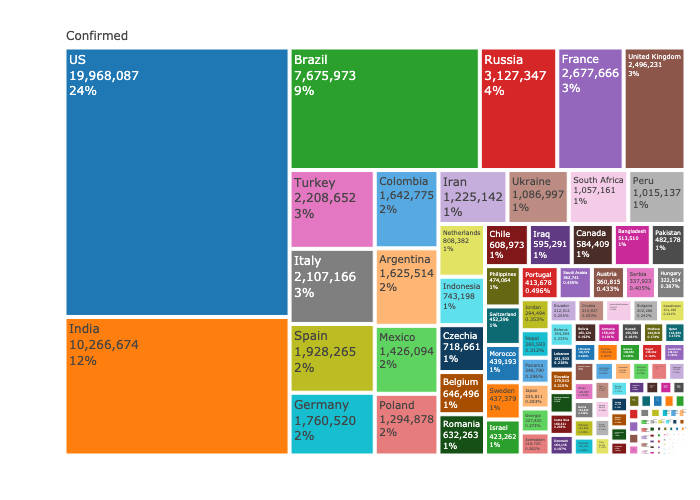
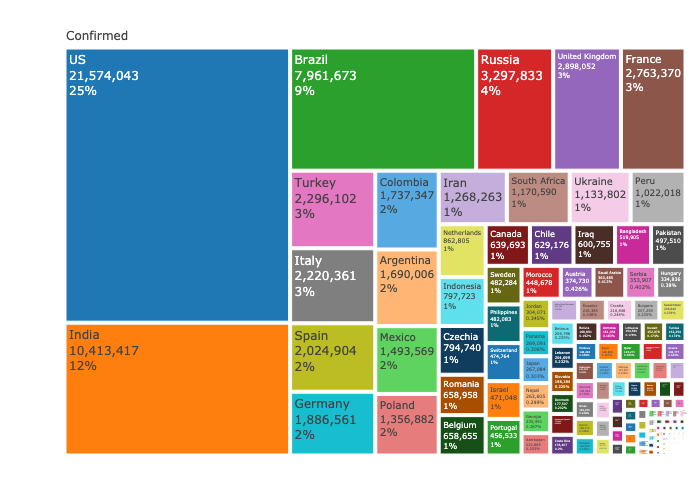
update the readme

Changed region(s): [[0.09, 0.09, 0.99, 0.93], [0.42, 0.09, 0.51, 0.21], [0.09, 0.12, 0.21, 0.18]]

diff --git a/README.md b/README.md
@@ -16,8 +16,8 @@ commit](https://img.shields.io/github/last-commit/RamiKrispin/coronavirus)](http
 
 <!-- badges: end -->
 
-The coronavirus package provides a tidy format dataset of the 2019-2020 
-Coronavirus disease COVID-19 epidemic. The raw data pulled from the
+The coronavirus package provides a tidy format dataset of the 2019 Novel
+Coronavirus COVID-19 (2019-nCoV) epidemic. The raw data pulled from the
 Johns Hopkins University Center for Systems Science and Engineering (JHU
 CCSE) Coronavirus
 [repository](https://github.com/CSSEGISandData/COVID-19).
@@ -47,7 +47,7 @@ Install the CRAN version:
 install.packages("coronavirus")
 ```
 
-Install the Github version (refreshed on a daily basis):
+Install the Github version (refreshed on a daily bases):
 
 ``` r
 # install.packages("devtools")
@@ -60,7 +60,7 @@ While the **coronavirus** [CRAN
 version](https://cran.r-project.org/package=coronavirus) is updated
 every month or two, the [Github (Dev)
 version](https://github.com/RamiKrispin/coronavirus) is updated on a
-daily basis. The `update_dataset` function enables to overcome this gap
+daily bases. The `update_dataset` function enables to overcome this gap
 and keep the installed version with the most recent data available on
 the Github version:
 
@@ -70,25 +70,6 @@ update_dataset()
 ```
 
 **Note:** must restart the R session to have the updates available
-
-Alternatively, you can pull the data using the
-[Covid19R](https://covid19r.github.io/documentation/) project [data
-standard
-format](https://covid19r.github.io/documentation/data-format-standard.html)
-with the `refresh_coronavirus_jhu` function:
-
-``` r
-covid19_df <- refresh_coronavirus_jhu()
-
-head(covid19_df)
-#>         date    location location_type location_code location_code_type  data_type value      lat      long
-#> 1 2020-04-05 Afghanistan       country            AF         iso_3166_2  cases_new    38 33.93911 67.709953
-#> 2 2020-08-12 Afghanistan       country            AF         iso_3166_2 deaths_new    10 33.93911 67.709953
-#> 3 2020-08-10 Afghanistan       country            AF         iso_3166_2 deaths_new     8 33.93911 67.709953
-#> 4 2020-08-15 Afghanistan       country            AF         iso_3166_2  cases_new    45 33.93911 67.709953
-#> 5 2020-10-09 Afghanistan       country            AF         iso_3166_2  cases_new    77 33.93911 67.709953
-#> 6 2020-04-03 Afghanistan       country            AF         iso_3166_2  cases_new    35 33.93911 67.709953
-```
 
 ## Dashboard
 
@@ -139,30 +120,30 @@ summary_df %>% head(20)
 #> # A tibble: 20 x 2
 #>    country        total_cases
 #>    <chr>                <int>
-#>  1 US                19968087
-#>  2 India             10266674
-#>  3 Brazil             7675973
-#>  4 Russia             3127347
-#>  5 France             2677666
-#>  6 United Kingdom     2496231
-#>  7 Turkey             2208652
-#>  8 Italy              2107166
-#>  9 Spain              1928265
-#> 10 Germany            1760520
-#> 11 Colombia           1642775
-#> 12 Argentina          1625514
-#> 13 Mexico             1426094
-#> 14 Poland             1294878
-#> 15 Iran               1225142
-#> 16 Ukraine            1086997
-#> 17 South Africa       1057161
-#> 18 Peru               1015137
-#> 19 Netherlands         808382
-#> 20 Indonesia           743198
+#>  1 US                21574043
+#>  2 India             10413417
+#>  3 Brazil             7961673
+#>  4 Russia             3297833
+#>  5 United Kingdom     2898052
+#>  6 France             2763370
+#>  7 Turkey             2296102
+#>  8 Italy              2220361
+#>  9 Spain              2024904
+#> 10 Germany            1886561
+#> 11 Colombia           1737347
+#> 12 Argentina          1690006
+#> 13 Mexico             1493569
+#> 14 Poland             1356882
+#> 15 Iran               1268263
+#> 16 South Africa       1170590
+#> 17 Ukraine            1133802
+#> 18 Peru               1022018
+#> 19 Netherlands         862805
+#> 20 Indonesia           797723
 ```
 
 Summary of new cases during the past 24 hours by country and type (as of
-2020-12-31):
+2021-01-07):
 
 ``` r
 library(tidyr)
@@ -177,48 +158,48 @@ coronavirus %>%
   arrange(-confirmed)
 #> # A tibble: 191 x 4
 #> # Groups:   country [191]
-#>    country        confirmed death recovered
-#>    <chr>              <int> <int>     <int>
-#>  1 US                227315  3419         0
-#>  2 Brazil             56773  1074     34752
-#>  3 United Kingdom     56029   965        65
-#>  4 Russia             27329   579     28257
-#>  5 Italy              23477   555     17421
-#>  6 France             20042   251      1176
-#>  7 Germany            19367   561      4756
-#>  8 Spain              18047   148         0
-#>  9 South Africa       18000   436     12074
-#> 10 Czechia            17039   151      8098
-#> 11 Colombia           16314   304     11239
-#> 12 Turkey             14380   239     22021
-#> 13 Poland             13464   535     10249
-#> 14 Mexico             12159   910      8024
-#> 15 Argentina          11586    82         0
-#> 16 Ukraine            10117   223     12468
-#> 17 Netherlands         9790   108       196
-#> 18 Indonesia           8074   194      7356
-#> 19 Portugal            7627    76      3260
-#> 20 Canada              7143   134      3409
-#> 21 Israel              6678    18      4037
-#> 22 Iran                6389   128     10119
-#> 23 Slovakia            6315    73      1544
-#> 24 Peru                4641   106         0
-#> 25 Japan               4540    49      1985
-#> 26 Switzerland         4391    51         0
-#> 27 Romania             4322   171      6737
-#> 28 Panama              4046    47      2537
-#> 29 Lebanon             3507    12      1499
-#> 30 Hungary             2971   108      5868
-#> 31 Serbia              2932    48         0
-#> 32 Austria             2913    73      1962
-#> 33 Malaysia            2525     8      1481
-#> 34 Pakistan            2463    71      2156
-#> 35 Slovenia            2412    32      1616
-#> 36 Croatia             2391    60      1733
-#> 37 Lithuania           2360    36      4543
-#> 38 Belgium             2254    87         0
-#> 39 Denmark             2254    42      4329
-#> 40 Chile               2023   109      1787
+#>    country              confirmed death recovered
+#>    <chr>                    <int> <int>     <int>
+#>  1 US                      274703  4085         0
+#>  2 Brazil                   87843  1524     48235
+#>  3 United Kingdom           52787  1162        72
+#>  4 Germany                  45333  1152     20837
+#>  5 Spain                    42360   245         0
+#>  6 Russia                   23218   491     23379
+#>  7 South Africa             20999   441      8977
+#>  8 Italy                    18416   414     15659
+#>  9 India                    18139   234     20539
+#> 10 Czechia                  17773   185     11211
+#> 11 Colombia                 17576   344     10707
+#> 12 Argentina                13835   146     10746
+#> 13 Mexico                   13734  1044      7503
+#> 14 Sweden                   12536   277         0
+#> 15 Turkey                   12171   194      8211
+#> 16 Poland                   12119   186      7872
+#> 17 Portugal                  9927    95      3476
+#> 18 Netherlands               9745    86        73
+#> 19 Indonesia                 9321   224      6924
+#> 20 Ukraine                   9320   163     11666
+#> 21 Canada                    8227   192      7023
+#> 22 Israel                    7600    23      4545
+#> 23 Japan                     7563    65      3412
+#> 24 Ireland                   6503     8         0
+#> 25 Iran                      6360   103     10032
+#> 26 Romania                   4951   111      4832
+#> 27 Lebanon                   4774    16      1016
+#> 28 Panama                    4135    38      4036
+#> 29 Switzerland               3975    69         0
+#> 30 Chile                     3693    97      2154
+#> 31 Hungary                   3068   127         0
+#> 32 Malaysia                  3027     8      2145
+#> 33 United Arab Emirates      2988     5      3658
+#> 34 Belgium                   2923    53         0
+#> 35 Slovenia                  2821    23      2045
+#> 36 Austria                   2540    43      1927
+#> 37 Pakistan                  2435    47      3313
+#> 38 Tunisia                   2373    48      1816
+#> 39 Lithuania                 2335    40      2272
+#> 40 Slovakia                  2137    60      2623
 #> # … with 151 more rows
 ```
 
@@ -255,7 +236,7 @@ coronavirus %>%
          xaxis = list(title = "Source: Johns Hopkins University Center for Systems Science and Engineering"))
 ```
 
-<img src="man/figures/total_cases.png" width="100%" />
+<img src="man/figures/total_cases.svg" width="100%" />
 
 Plot the confirmed cases distribution by counrty with treemap plot:
 
@@ -278,7 +259,7 @@ conf_df <- coronavirus %>%
           textinfo="label+value+percent parent")
 ```
 
-<img src="man/figures/treemap_conf.png" width="100%" />
+<img src="man/figures/treemap_conf.svg" width="100%" />
 
 ## Data Sources
 
